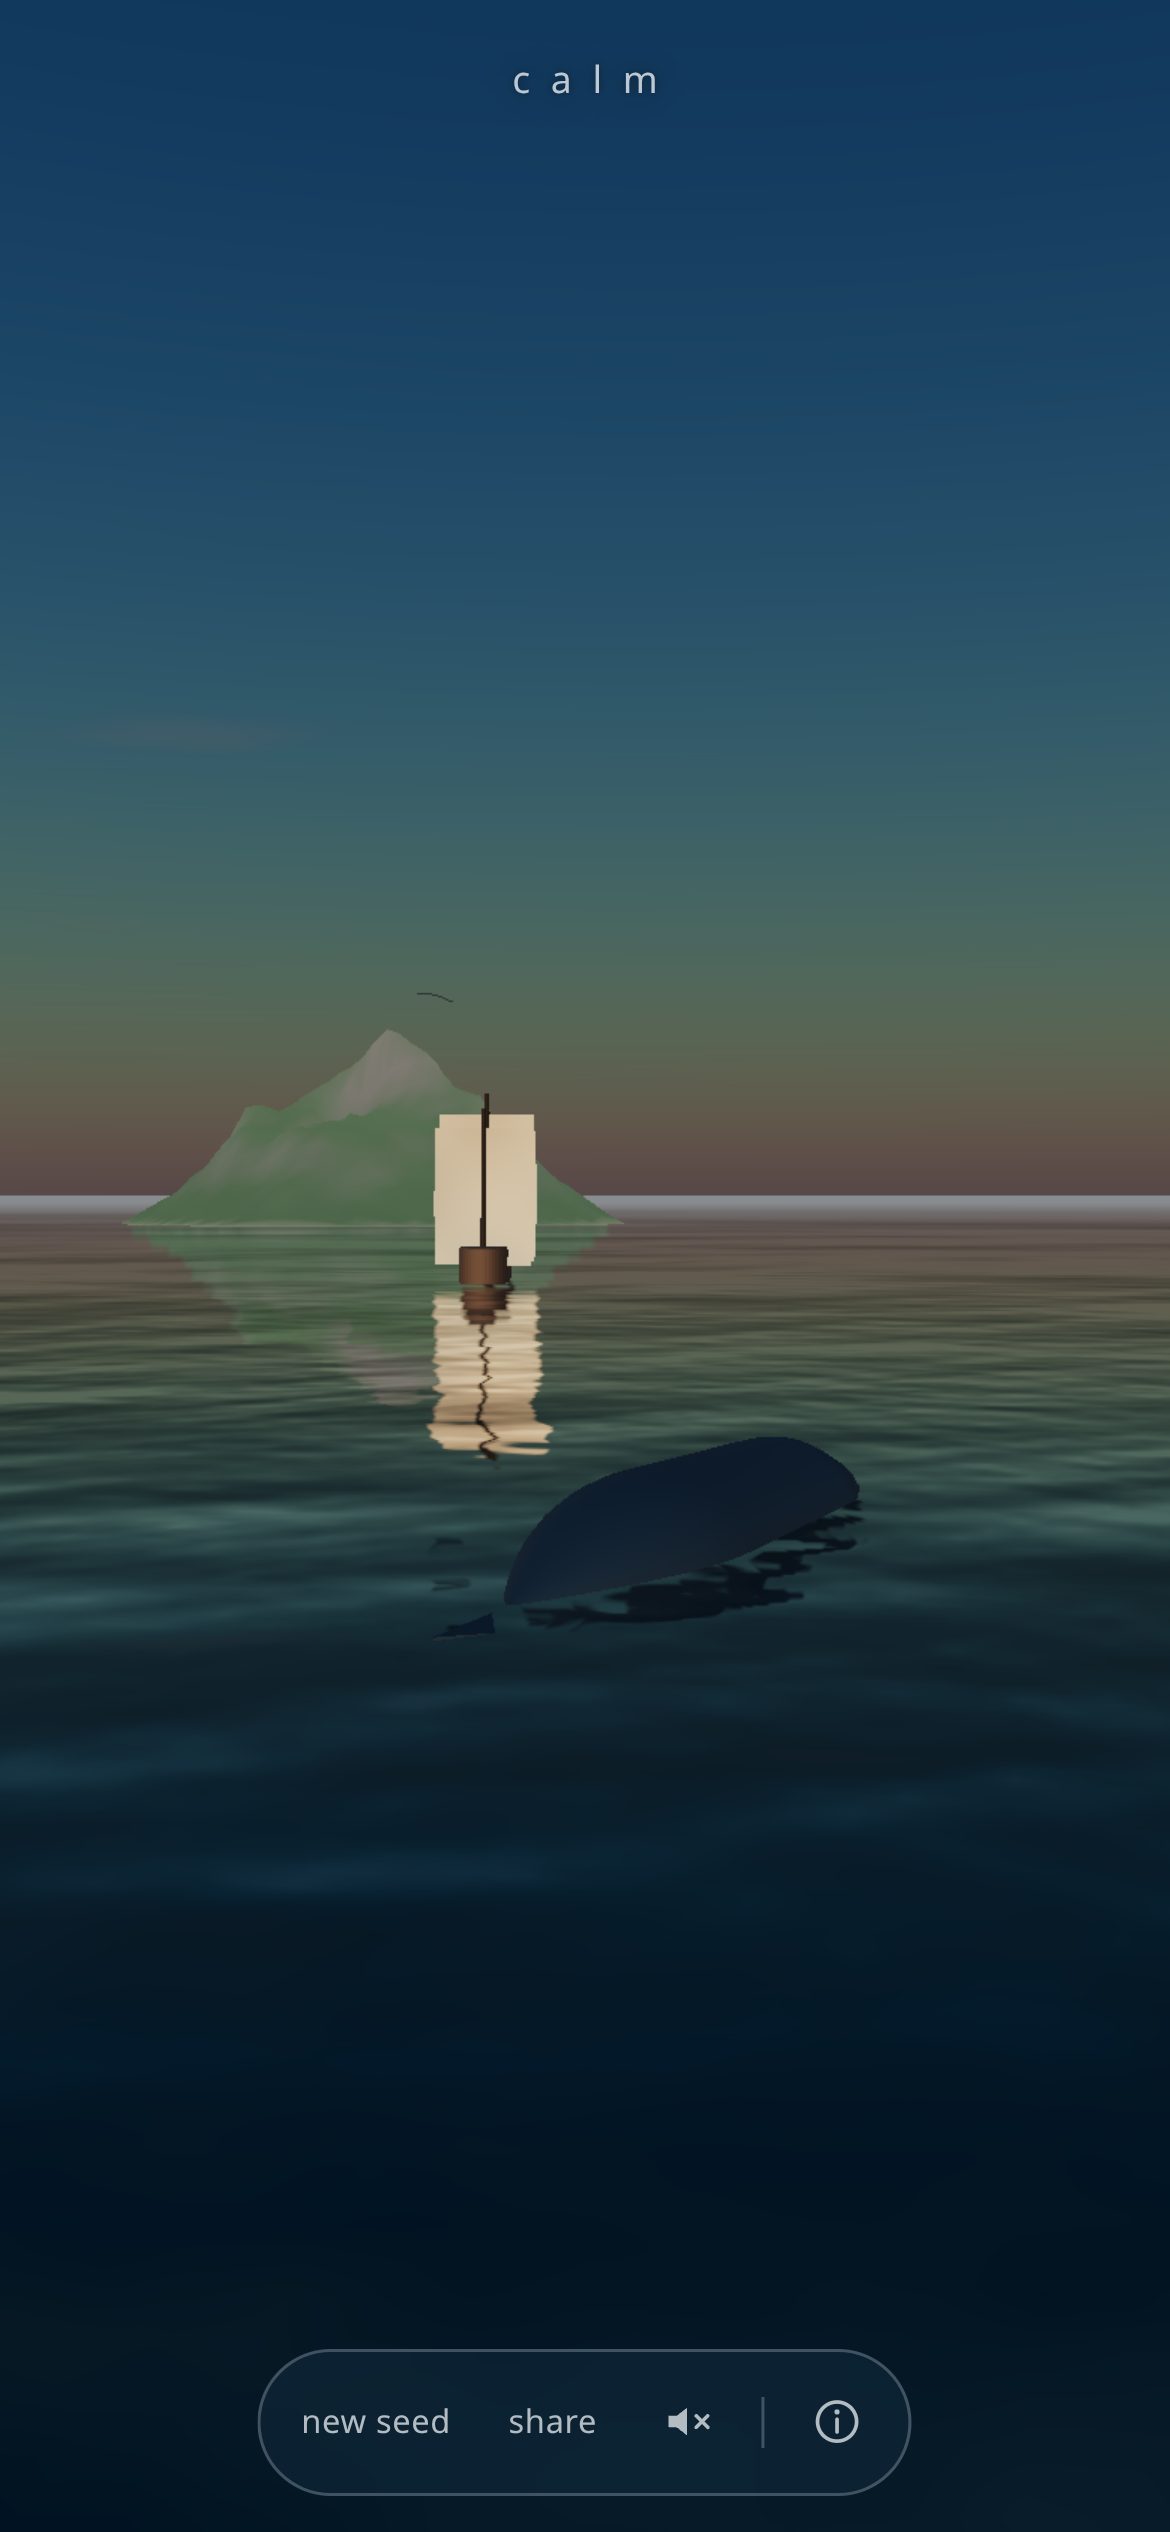
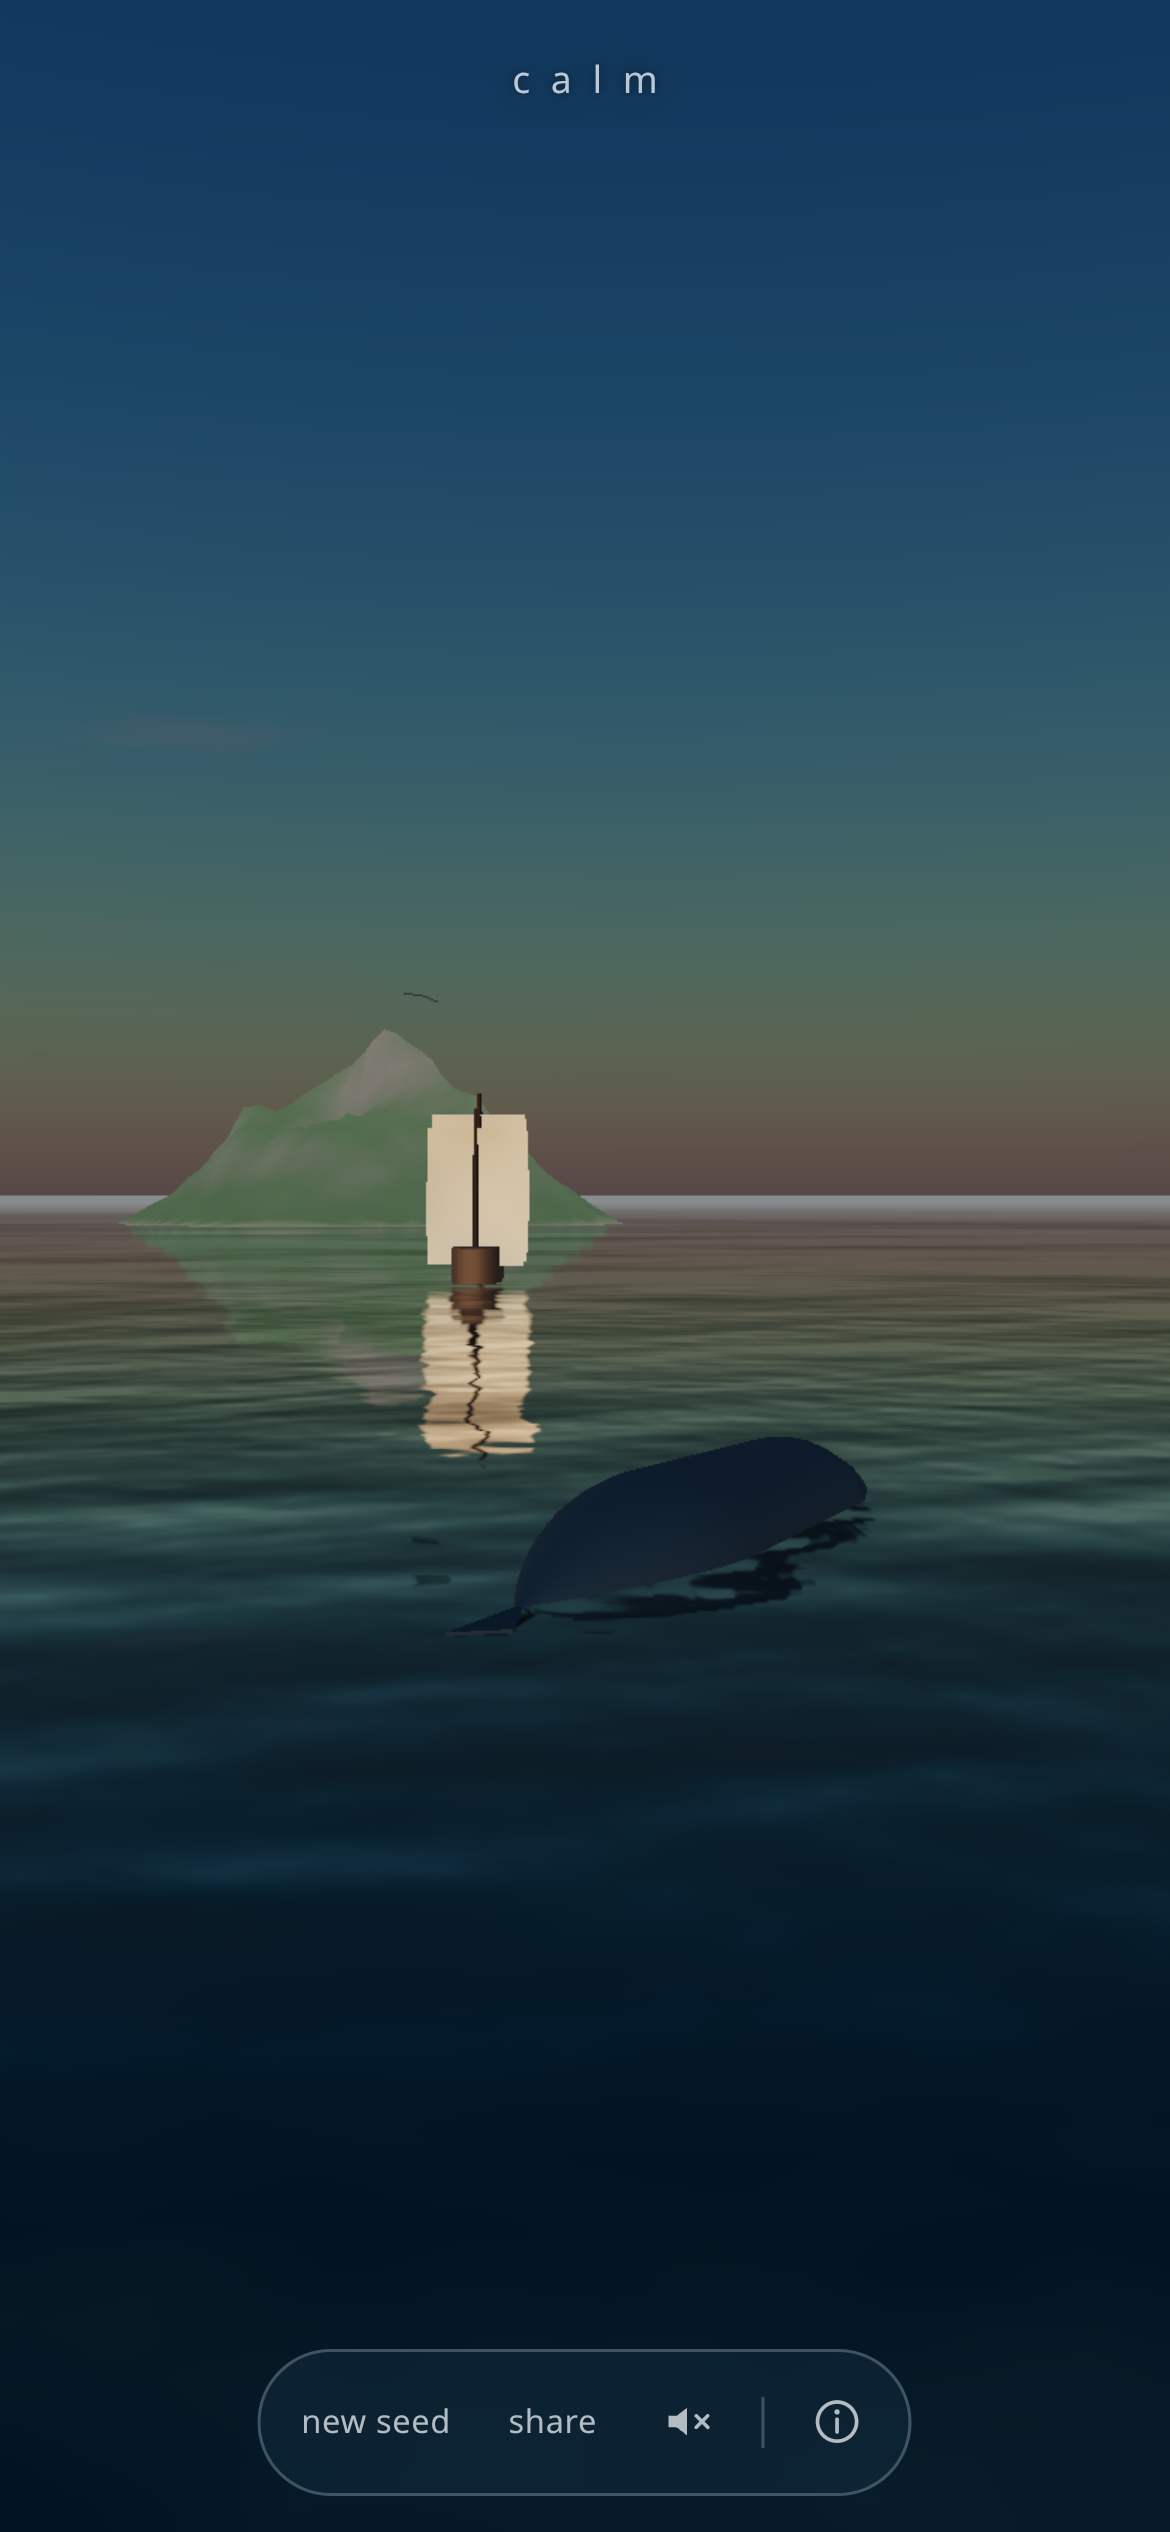
Turn the whale's spout into a thin mist plume
The plume was additive and bright enough to blow out under tone mapping, and
it showed up again in the water reflection. It is now a short translucent
column that the reflection pass skips.

diff --git a/src/whale.ts b/src/whale.ts
@@ -166,6 +166,25 @@ function softCircleTexture(): THREE.CanvasTexture {
   return texture;
 }
 
+/** Soft disc. Center stays under 1 so stacked sprites cannot climb to white. */
+function mistTexture(): THREE.CanvasTexture {
+  const size = 64;
+  const canvas = document.createElement('canvas');
+  canvas.width = size;
+  canvas.height = size;
+  const ctx = canvas.getContext('2d')!;
+  const gradient = ctx.createRadialGradient(32, 32, 0, 32, 32, 32);
+  gradient.addColorStop(0, 'rgba(255,255,255,0.85)');
+  gradient.addColorStop(0.35, 'rgba(255,255,255,0.28)');
+  gradient.addColorStop(0.7, 'rgba(255,255,255,0.06)');
+  gradient.addColorStop(1, 'rgba(255,255,255,0)');
+  ctx.fillStyle = gradient;
+  ctx.fillRect(0, 0, size, size);
+  const texture = new THREE.CanvasTexture(canvas);
+  texture.needsUpdate = true;
+  return texture;
+}
+
 export function createWhale(seed: number, home: { x: number; z: number }): WhaleHandle {
   const rng = fork(seed, 'whale');
   const group = new THREE.Group();
@@ -226,30 +245,39 @@ export function createWhale(seed: number, home: { x: number; z: number }): Whale
   finR.rotation.z = 0.9;
   group.add(finR);
 
-  // Spout: 14 sprites from the blowhole, large enough to read at ~40 m.
-  const spoutTex = softCircleTexture();
+  // Spout: narrow mist column. Layer 1 is omitted by Water's mirror camera (layer 0 only).
+  const MIST_LAYER = 1;
+  const mistTex = mistTexture();
   const spoutGroup = new THREE.Group();
   spoutGroup.visible = false;
-  spoutGroup.position.set(3.2, 0.7, 0);
+  spoutGroup.position.set(-2.6, 0.85, 0);
+  spoutGroup.layers.set(MIST_LAYER);
   const spoutSprites: THREE.Sprite[] = [];
-  for (let i = 0; i < 16; i++) {
+  const SPOUT_N = 10;
+  for (let i = 0; i < SPOUT_N; i++) {
     const mat = new THREE.SpriteMaterial({
-      map: spoutTex,
-      color: 0xf4f8fc,
+      map: mistTex,
+      color: 0xb4c3cc,
       transparent: true,
       opacity: 0,
       depthWrite: false,
+      // The ocean draws the water plane over anything that fails the depth test,
+      // which clips the column back down to a sky wisp. Draw the mist after the
+      // water and skip the depth test so the plume stays in front of the surface.
       depthTest: false,
-      blending: THREE.AdditiveBlending,
-      toneMapped: false,
+      blending: THREE.NormalBlending,
+      toneMapped: true,
     });
     const sprite = new THREE.Sprite(mat);
-    sprite.scale.setScalar(1.2);
+    sprite.scale.set(0.8, 0.7, 1);
+    sprite.layers.set(MIST_LAYER);
+    sprite.renderOrder = 2;
     spoutGroup.add(sprite);
     spoutSprites.push(sprite);
   }
   group.add(spoutGroup);
 
+  const spoutTex = softCircleTexture();
   // Splash: ring + outward spray sprites.
   const splashGeo = new THREE.RingGeometry(0.5, 2.2, 32);
   const splashMat = new THREE.MeshBasicMaterial({
@@ -435,23 +463,31 @@ export function createWhale(seed: number, home: { x: number; z: number }): Whale
       posAttr.needsUpdate = true;
       fluke.rotation.z = Math.sin(time * 2.2 - 3.2) * 0.3;
 
-      // Spout plume — tall enough to read at cinematic distance.
-      spoutGroup.visible = state.spout > 0.02;
-      for (let i = 0; i < spoutSprites.length; i++) {
-        const sprite = spoutSprites[i]!;
-        const mat = sprite.material as THREE.SpriteMaterial;
-        const life = state.spout;
-        if (life <= 0.02) {
-          mat.opacity = 0;
-          continue;
+      // Thin mist column. Local sizes are multiplied by group.scale 1.2, so the
+      // world column is ~0.8 wide at the base, ~2.5 at the top, and ~5 tall.
+      // It rises over ~2.2 s of the 3.5 s spout, then disperses. Peak opacity ≤ 0.34.
+      {
+        const t = state.phase === 'spout' ? state.phaseT : 0;
+        const rising = t < 0.62;
+        const rise = clamp(t / 0.62, 0, 1);
+        const fade = rising ? rise : clamp(1 - (t - 0.62) / 0.38, 0, 1);
+        const columnH = lerp(0.35, 4.5, rise);
+        spoutGroup.visible = fade > 0.02;
+        for (let i = 0; i < spoutSprites.length; i++) {
+          const sprite = spoutSprites[i]!;
+          const mat = sprite.material as THREE.SpriteMaterial;
+          if (fade <= 0.02) {
+            mat.opacity = 0;
+            continue;
+          }
+          const u = i / Math.max(1, spoutSprites.length - 1);
+          const jitter = (hash(seed, i, 'spout') / 0x100000000 - 0.5);
+          const spread = (0.12 + u * 0.7) * (rising ? 0.28 : 0.65 + (1 - fade));
+          sprite.position.set(jitter * spread, u * columnH, jitter * 0.4 * spread);
+          const width = lerp(0.7, 2.15, u);
+          sprite.scale.set(width, lerp(1.25, 1.9, u), 1);
+          mat.opacity = fade * lerp(0.34, 0.16, u);
         }
-        const u = i / spoutSprites.length;
-        const rise = life * (4.5 + u * 2.5);
-        const drift = (hash(seed, i, 'spout') / 0x100000000 - 0.5) * life * 1.4;
-        sprite.position.set(drift * 0.6, rise, drift);
-        const s = lerp(1.0, 3.2, life * (0.35 + u * 0.65));
-        sprite.scale.setScalar(s);
-        mat.opacity = life * (1 - u * 0.3) * 0.85;
       }
 
       // Splash ring + spray.
@@ -488,6 +524,7 @@ export function createWhale(seed: number, home: { x: number; z: number }): Whale
       darkMat.dispose();
       splashGeo.dispose();
       splashMat.dispose();
+      mistTex.dispose();
       spoutTex.dispose();
       for (const sprite of spoutSprites) (sprite.material as THREE.Material).dispose();
       for (const sprite of splashSprites) (sprite.material as THREE.Material).dispose();

diff --git a/tools/shots.ts b/tools/shots.ts
@@ -63,15 +63,14 @@ await withBrowser(async (browser, base) => {
     `${directory}mobile-spout.png`,
     { debug: '1' },
     async (page) => {
+      // Natural phone camera. First spout peaks ~5 s (phase offset); seek there, not a close debug frame.
       await page.evaluate(() => {
-        (window as unknown as { __calmReview?: CalmReview }).__calmReview?.forceSpout?.();
+        const review = (window as unknown as { __calmReview?: CalmReview }).__calmReview;
+        const now = review?.time ?? 0;
+        const target = 5.1;
+        if (now < target) review?.advance?.(target - now);
       });
-      await page.waitForTimeout(400);
-      // Re-snap after a couple of ticks so pose + camera agree.
-      await page.evaluate(() => {
-        (window as unknown as { __calmReview?: CalmReview }).__calmReview?.frameWhale?.('spout');
-      });
-      await page.waitForTimeout(350);
+      await page.waitForTimeout(500);
     },
   );
 

diff --git a/src/main.ts b/src/main.ts
@@ -92,6 +92,8 @@ renderer.autoClear = true;
 const scene = new THREE.Scene();
 const portrait = window.innerHeight > window.innerWidth;
 const camera = new THREE.PerspectiveCamera(portrait ? 62 : 48, 1, 0.5, 12000);
+// Layer 1 is the spout mist. Water's mirror camera stays on layer 0, so the plume is not reflected.
+camera.layers.enable(1);
 
 let sky: ReturnType<typeof createSky>;
 let ocean: ReturnType<typeof createOcean>;

diff --git a/FOLLOWUP.md b/FOLLOWUP.md
@@ -1,5 +1,7 @@
 # Follow-up
 
+- Spout was over-bright (additive sprites above the tone-map white point, plus a matching blob in the water mirror). This pass makes it a short translucent mist column on layer 1 so the Water mirror skips it. Monitor it on a device.
+- Cloudflare zone injects its Web Analytics beacon / inline script. The strict CSP blocks it (harmless console errors). Disable RUM/beacon injection on the zone if those errors should go away.
 - Horizon seam under ACES can still show a thin bright water/sky line.
 - Desktop seed 1234 still frames the whale very close, so the head reads as a rounded end-on mass. Pull the default camera back slightly if that crop should show the full side profile.
 - Islands use an unlit material so the muted palette survives ACES. They have no slope shading. A lit look that still holds #2f4a2c / #5e5a52 is unfinished.
